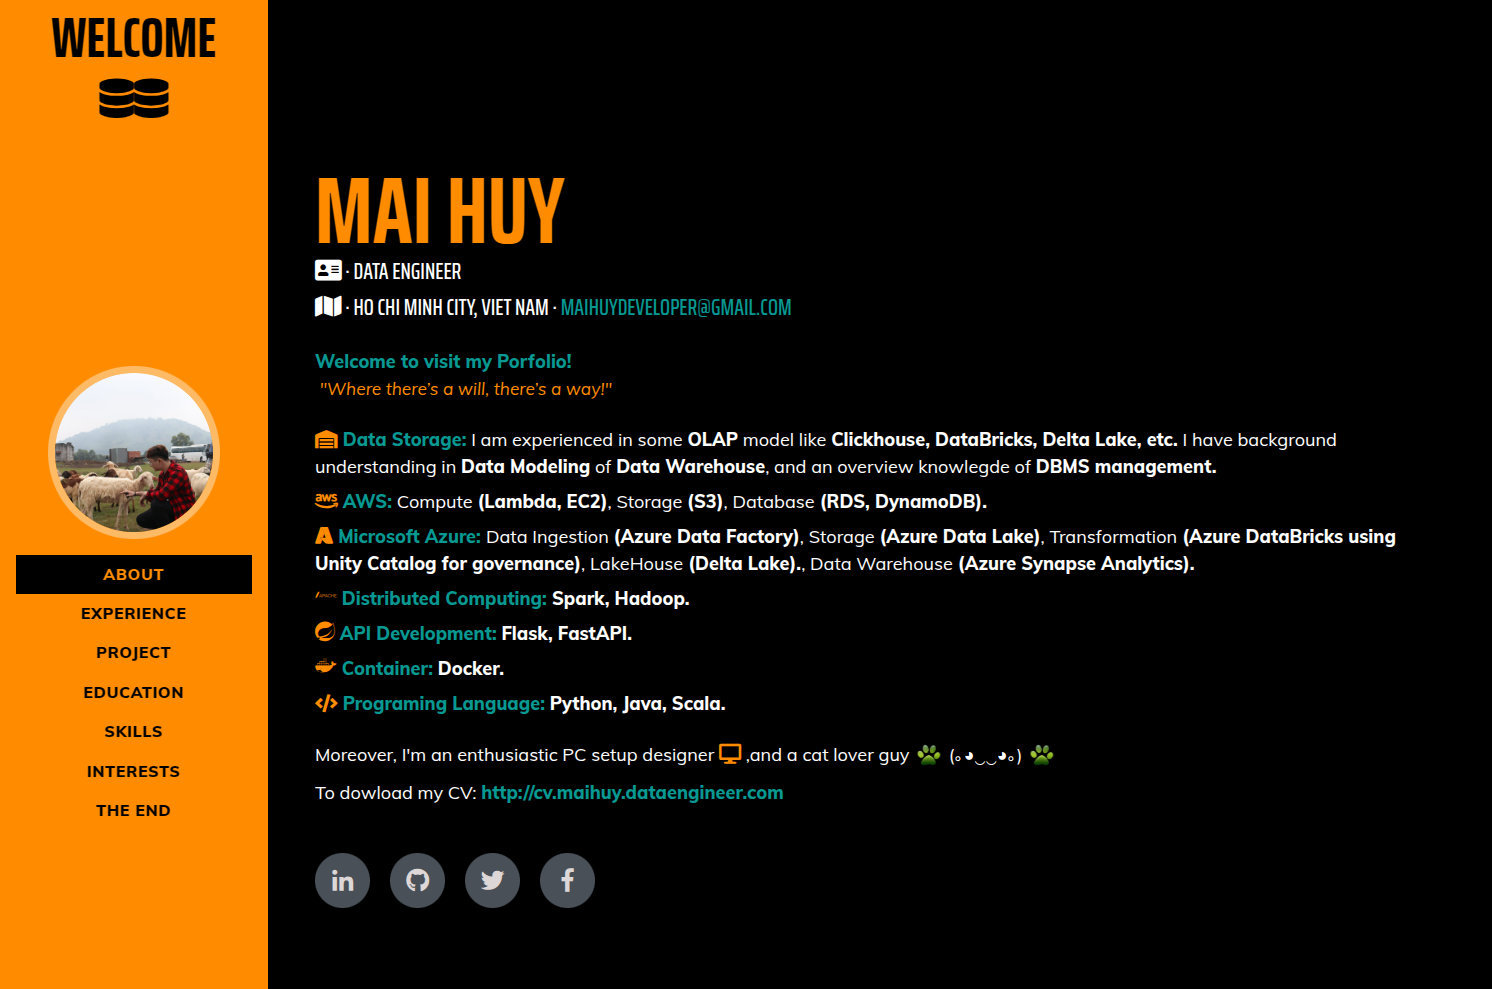
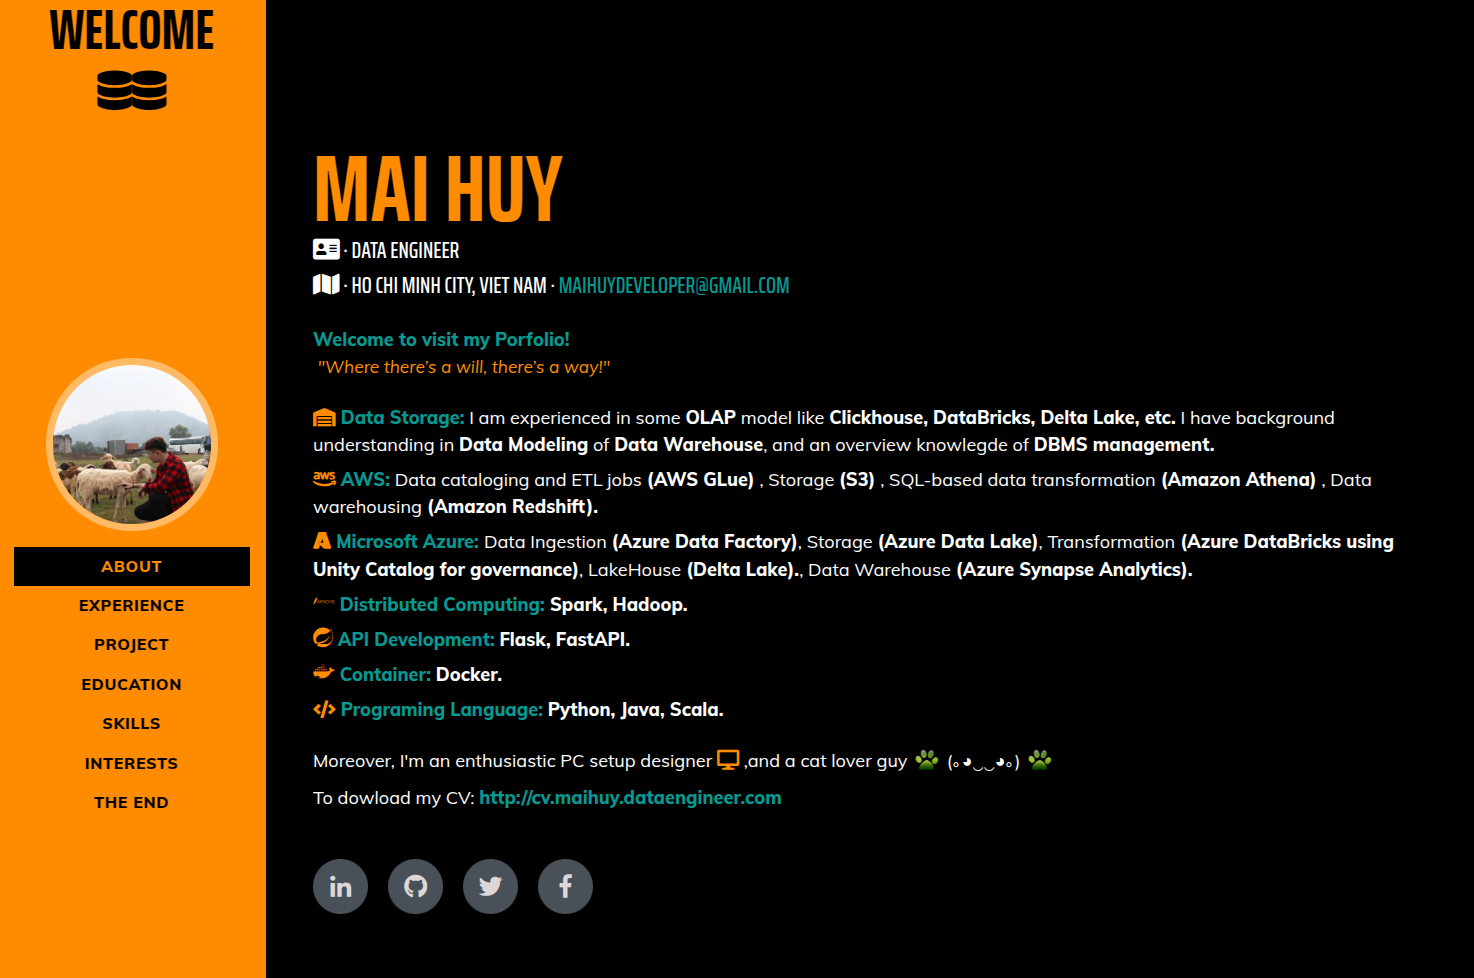
update reddit project

diff --git a/index.html b/index.html
@@ -112,7 +112,10 @@
           </p>
           <p class="lead mb-2">
             <strong style="color: #079992;"><i class='fab fa-aws' style="color: #ff8c00;"></i> AWS:</strong>
-           Compute <strong>(Lambda, EC2)</strong>, Storage <strong> (S3)</strong>, Database<strong> (RDS, DynamoDB).</strong>
+            Data cataloging and ETL jobs<strong> (AWS GLue)</strong>
+            , Storage <strong> (S3)</strong>
+            , SQL-based data transformation<strong> (Amazon Athena)</strong>
+            , Data warehousing<strong> (Amazon Redshift).</strong>
           </p>
           <p class="lead mb-2">
             <strong style="color: #079992;">
@@ -308,52 +311,19 @@
                 <img class="img-fluid" src="public/img/projects/AdventureWorks.png" alt="adventure-works-projects" />
               </a>
             </div>
-            <!-- <div class="col-lg-6 p-1">
-              <a class="portfolio-item" href="https://trungquandev.com/" target="_blank" rel="noreferrer">
-                <div class="caption">
-                  <div class="caption-content">
-                    <div class="h2 flex-aic">Blog<i class="fas fa-external-link-alt" style="font-size: 8px;"></i></div>
-                    <p class="mb-0">My tech blog since 2016!</p>
-                  </div>
-                </div>
-                <img class="img-fluid" src="public/img/projects/p-3.jpeg" alt="trungquandev-projects" />
-              </a>
-            </div>
             <div class="col-lg-6 p-1">
-              <a class="portfolio-item" href="https://www.youtube.com/@trungquandev" target="_blank" rel="noreferrer">
+              <a class="portfolio-item" href="https://github.com/maihuy-dataguy/Aws-Reddit-DataEngineering" target="_blank" rel="noreferrer">
                 <div class="caption">
                   <div class="caption-content">
-                    <div class="h2 flex-aic">YouTube<i class="fas fa-external-link-alt" style="font-size: 8px;"></i></div>
-                    <p class="mb-0">Micro-Influencer on YouTube!</p>
+                    <div class="h2 flex-aic">AWS Reddit Data<i class="fas fa-external-link-alt" style="font-size: 8px;"></i></div>
+                    <p class="mb-0">Data Pipeline with Reddit, Airflow, Celery, Postgres, S3, AWS Glue, Athena, and Redshift
+                    </p>
                   </div>
                 </div>
-                <img class="img-fluid" src="public/img/projects/p-4.jpeg" alt="trungquandev-projects" />
+                <img class="img-fluid" src="public/img/projects/reddit-project.png" alt="adventure-works-projects" />
               </a>
             </div>
-            <div class="col-lg-6 p-1">
-              <a class="portfolio-item" href="https://www.youtube.com/watch?v=c1ALsN8-JA4&list=PLP6tw4Zpj-RJP2-YrhtkWqObMQ-AA4TDy" target="_blank" rel="noreferrer">
-                <div class="caption">
-                  <div class="caption-content">
-                    <div class="h2 flex-aic">MERN Stack Pro<i class="fas fa-external-link-alt" style="font-size: 8px;"></i></div>
-                    <p class="mb-0">Teaching programming by creating a "Trello website" from scratch!</p>
-                  </div>
-                </div>
-                <img class="img-fluid" src="public/img/projects/p-5.jpeg" alt="trungquandev-projects" />
-              </a>
-            </div>
-            <div class="col-lg-6 p-1">
-              <a class="portfolio-item" href="https://www.youtube.com/watch?v=9M1ZeMip40k&list=PLP6tw4Zpj-RJbPQfTZ0eCAXH_mHQiuf2G" target="_blank" rel="noreferrer">
-                <div class="caption">
-                  <div class="caption-content">
-                    <div class="h2 flex-aic">MERN Stack Advanced<i class="fas fa-external-link-alt" style="font-size: 8px;"></i></div>
-                    <p class="mb-0">Online class, with more advanced and in-depth features!</p>
-                  </div>
-                </div>
-                <img class="img-fluid" src="public/img/projects/p-6.jpeg" alt="trungquandev-projects" />
-              </a>
-            </div>
-          </div>
-        </div> -->
+ 
       </section>
 
       <hr class="m-0" style="border-top: 1px dotted #ff8c00">
